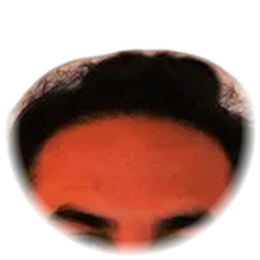
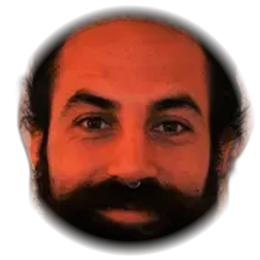
build v44: la cara de Alberto, centrada
El recorte redondo de Alberto estaba mal: en vez de la cara se le veia la frente
y el pelo, cortado por los ojos. El fallo venia del encuadre que se uso al
recortarlo (una caja fija sobre el 80% superior de la imagen), que en su foto
—mas alta que ancha por la barba— caia demasiado arriba.

Medida la figura del recorte de cuerpo (181x267, cabeza de y=2 a y~230) y hecho
el recorte centrado de verdad en la cara: centro (90, 116), lado 178. Comprobado
poniendo las cuatro caras del cameo una al lado de otra: ahora Alberto llena el
circulo igual que mama y que Manuel.

Subida la version de la cache del service worker para que a quien ya tenga el
juego instalado no le siga saliendo la foto vieja.

diff --git a/index.html b/index.html
@@ -124,7 +124,7 @@
     <b style="color:#f2c749">Teclado:</b> ◀ ▶ moverse · <b style="color:#f2c749">ESPACIO</b> saltar ·
     <b style="color:#ff6b6b">X</b> o <b style="color:#ff6b6b">ENTER</b> = KATANA
   </div>
-  <div id="build-tag" style="color:#3a3d3f;font-size:10px;padding:4px 0;">build v43 — 26 jul, voz de dragón y de malo · los malos, más grandes y se ve lo que son</div>
+  <div id="build-tag" style="color:#3a3d3f;font-size:10px;padding:4px 0;">build v44 — 26 jul, la cara de Alberto, centrada</div>
 </div>
 
 <script src="https://cdn.jsdelivr.net/npm/phaser@3.80.1/dist/phaser.min.js"></script>

diff --git a/sw.js b/sw.js
@@ -4,7 +4,7 @@
    se pide SIEMPRE a la red y solo se tira de la copia guardada si no hay conexión. Las
    fotos y el audio sí van de caché primero, que no cambian y así el juego abre al vuelo
    y funciona sin datos. NO cambiar el HTML a cache-first: volvería el problema de siempre. */
-const CACHE = 'aida-vol1-5-v43';
+const CACHE = 'aida-vol1-5-v44';
 const ASSETS = [
   './manifest.json',
   './icon-192.png',
